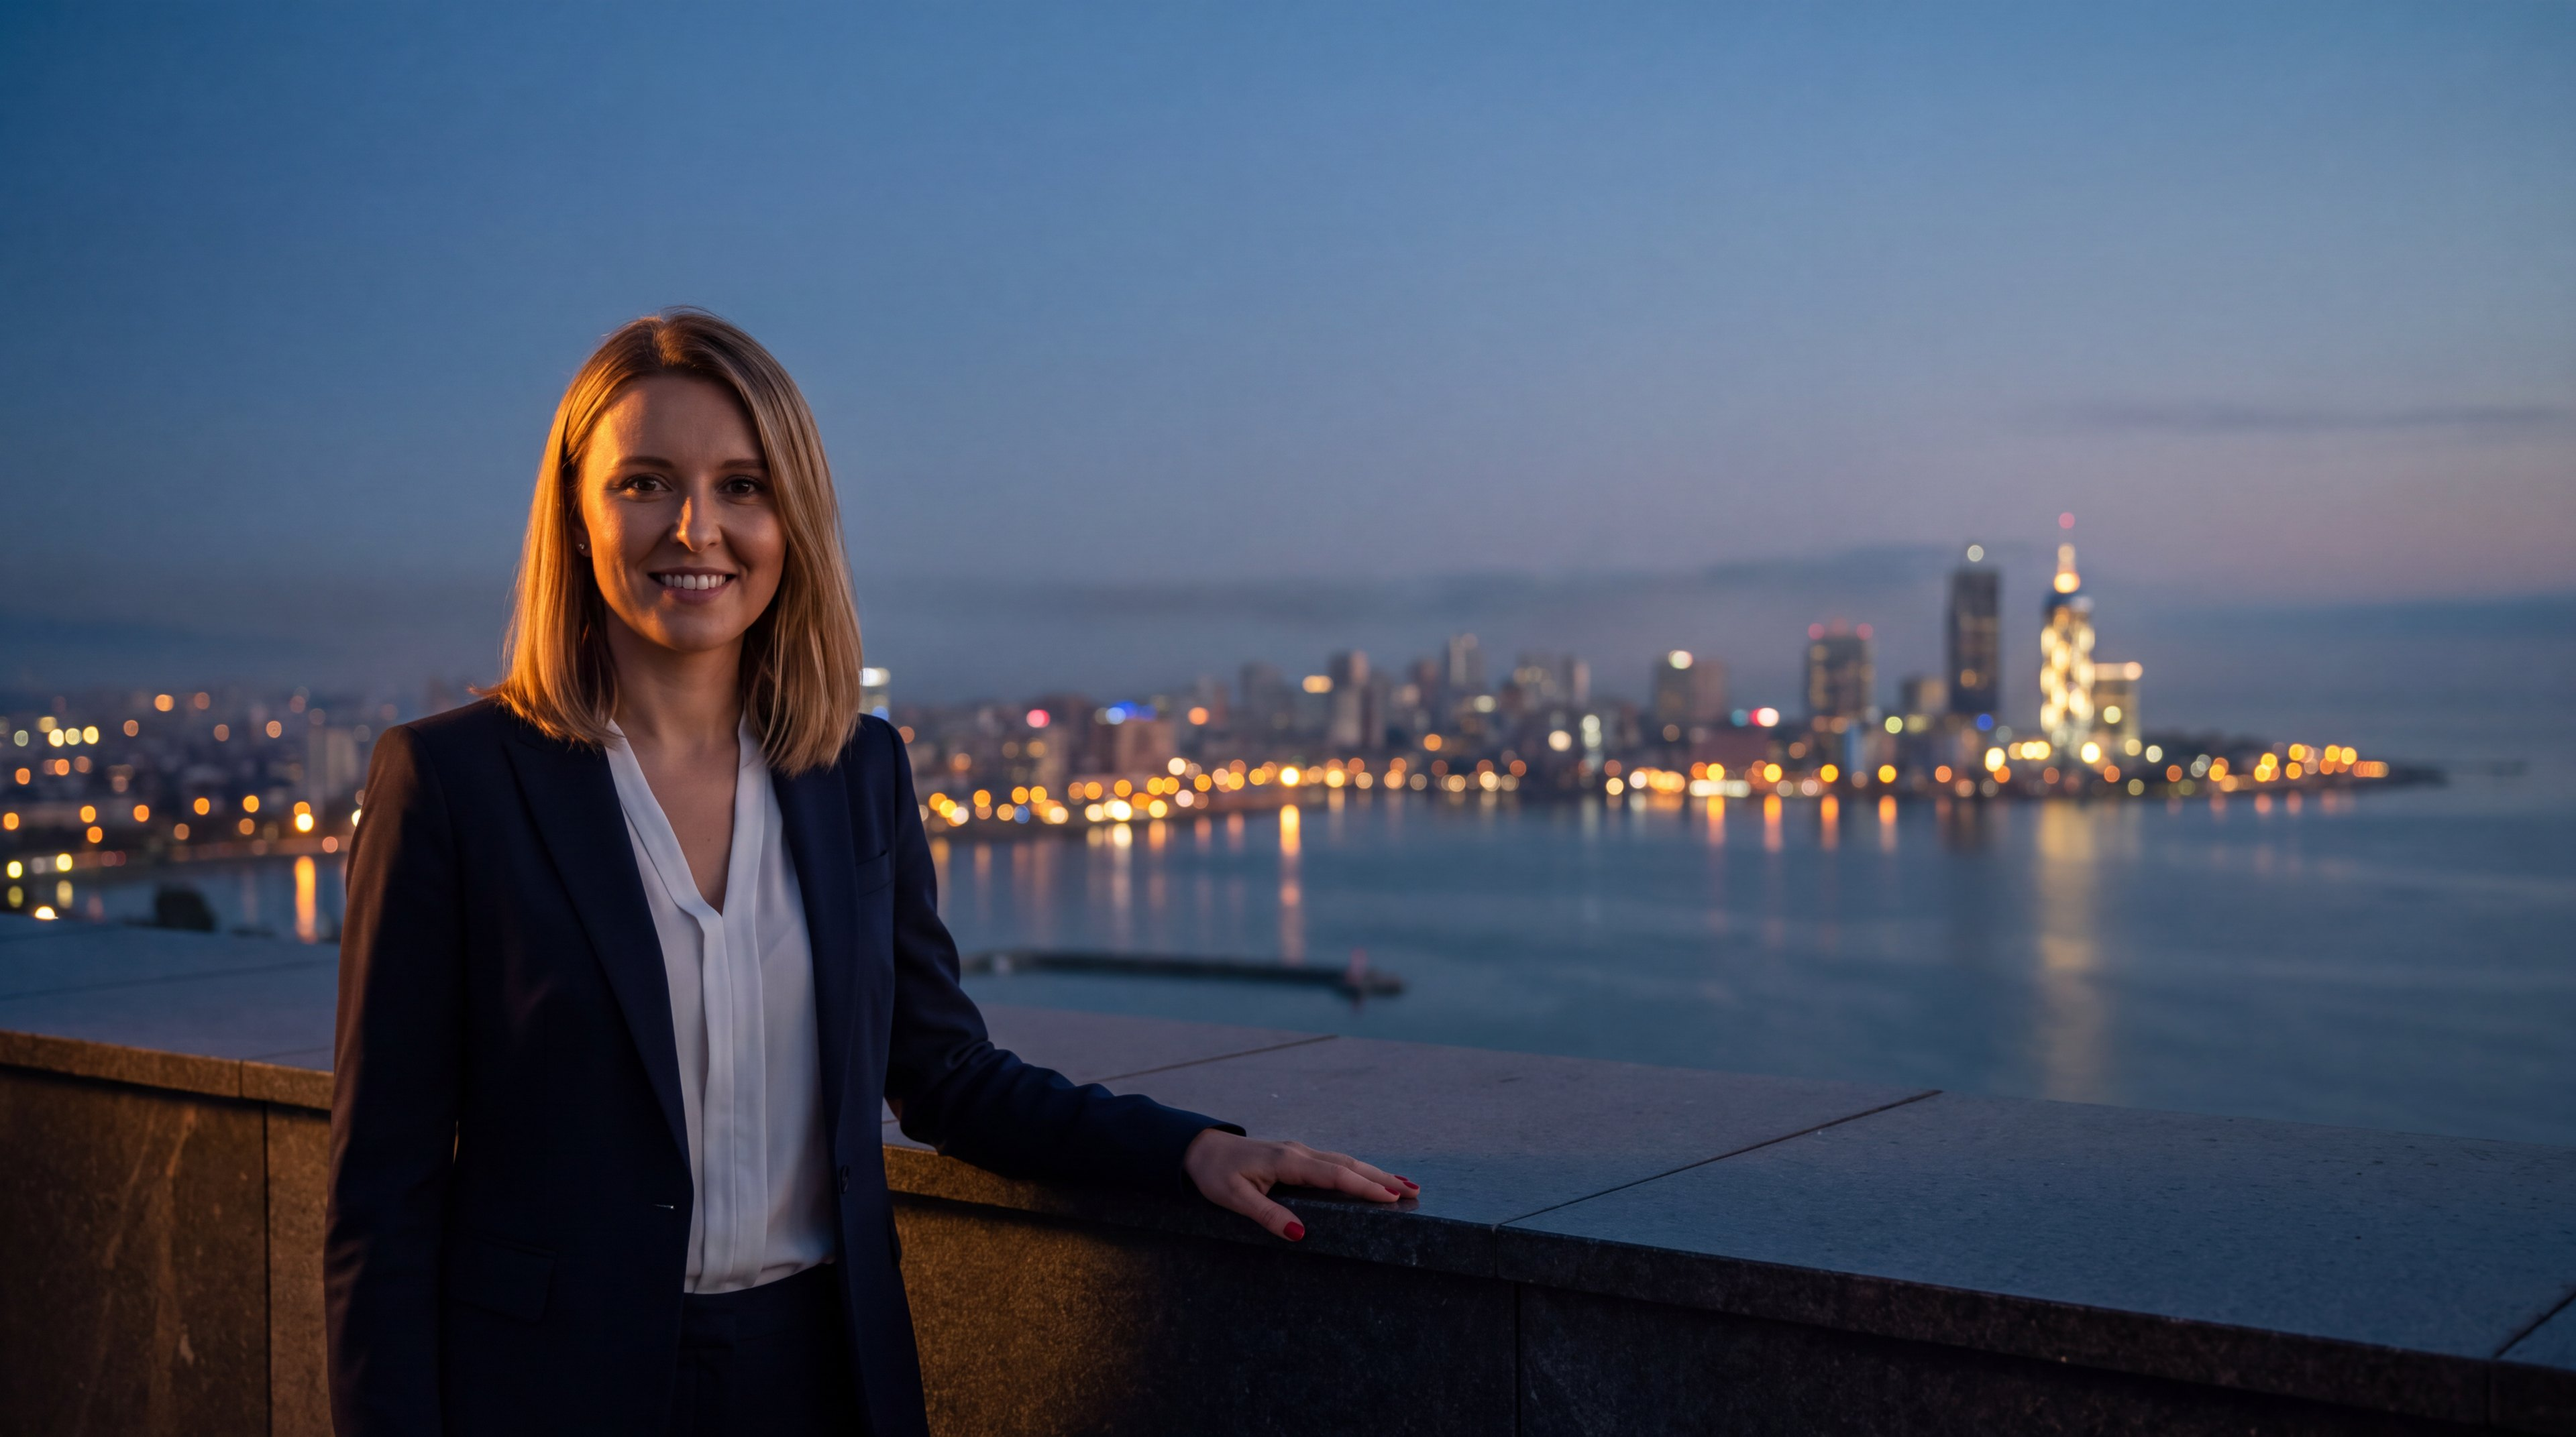
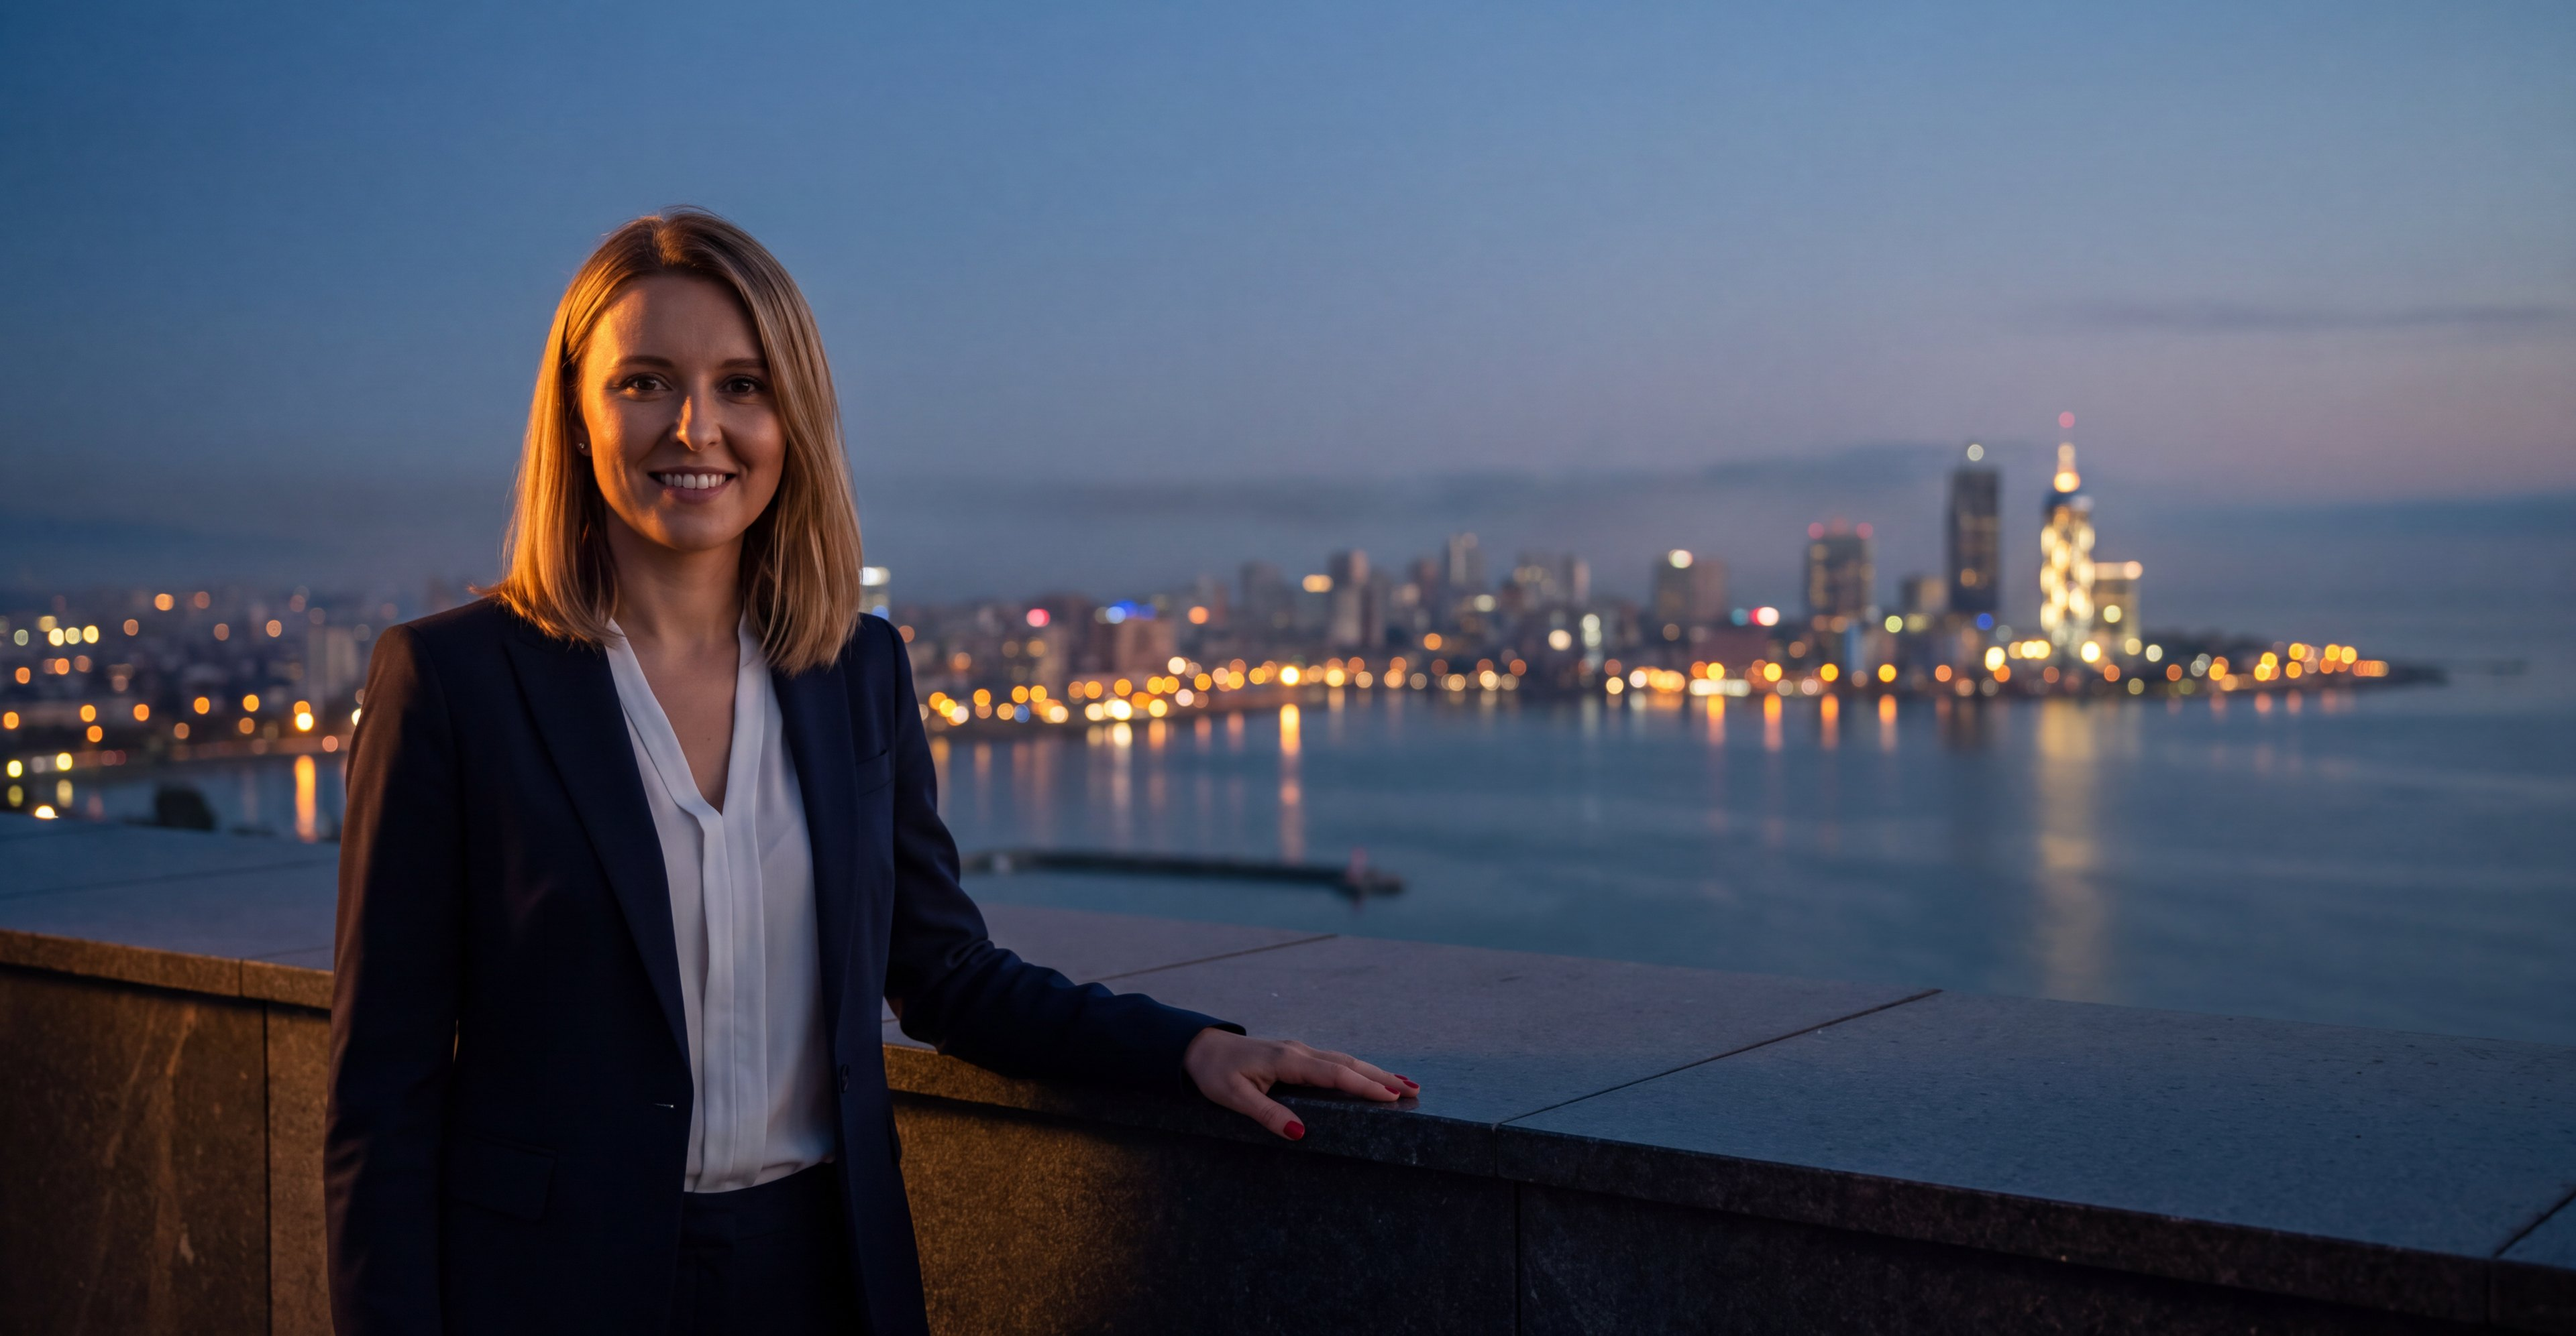
Hero: trim sky, compact text block so the skyline stays clear

diff --git a/src/components/home/HeroSection.tsx b/src/components/home/HeroSection.tsx
@@ -26,10 +26,10 @@ export function HeroSection() {
       <div className="absolute inset-0 bg-gradient-to-t from-ink-900 via-ink-950/10 via-30% to-transparent" />
 
       {/* Content: compact glass panel, bottom right */}
-      <div className="relative z-10 container-site mt-auto pt-[62vh] pb-14 lg:mt-0 lg:pt-0 lg:min-h-screen lg:flex lg:items-end lg:justify-end lg:pb-14">
+      <div className="relative z-10 container-site mt-auto pt-[62vh] pb-14 lg:mt-0 lg:pt-0 lg:min-h-screen lg:flex lg:items-end lg:justify-end lg:pb-10">
         <div className="max-w-[580px] [text-shadow:0_2px_24px_rgba(0,0,0,0.85)]">
           {/* Badge */}
-          <div className="hero-in inline-flex items-center gap-3 mb-5" style={{ animationDelay: "0.15s" }}>
+          <div className="hero-in inline-flex items-center gap-3 mb-3" style={{ animationDelay: "0.15s" }}>
             <span className="w-8 h-px bg-gold" />
             <span className="font-sans text-[10px] font-semibold uppercase tracking-[0.28em] text-gold">
               {t("badge")}
@@ -37,13 +37,13 @@ export function HeroSection() {
           </div>
 
           {/* Title */}
-          <h1 style={{ animationDelay: "0.3s" }} className="hero-in font-serif font-light text-[28px] sm:text-4xl lg:text-[38px] text-ivory leading-[1.12] mb-5 text-balance">
+          <h1 style={{ animationDelay: "0.3s" }} className="hero-in font-serif font-light text-[28px] sm:text-4xl lg:text-[34px] text-ivory leading-[1.12] mb-4 text-balance">
             {t("title")}
           </h1>
           <span className="glow-line line-grow w-32 mb-6" style={{ animationDelay: "0.8s" }} />
 
           {/* Subtitle */}
-          <p style={{ animationDelay: "0.55s" }} className="hero-in font-sans font-light text-sm sm:text-[15px] text-ivory/70 leading-relaxed mb-8">
+          <p style={{ animationDelay: "0.55s" }} className="hero-in font-sans font-light text-sm sm:text-[15px] text-ivory/70 leading-relaxed mb-6">
             {t("subtitle")}
           </p>
 
